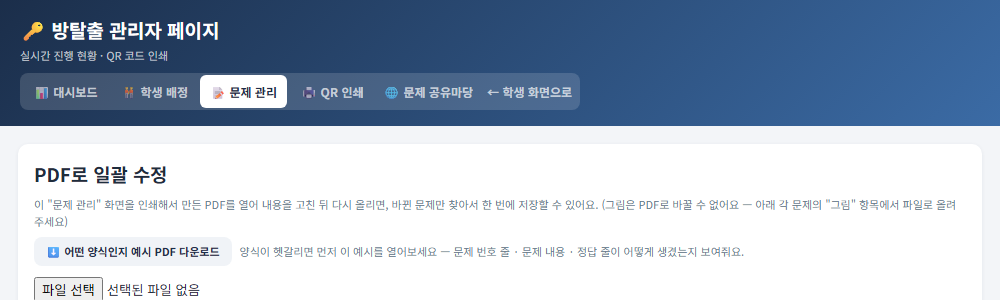
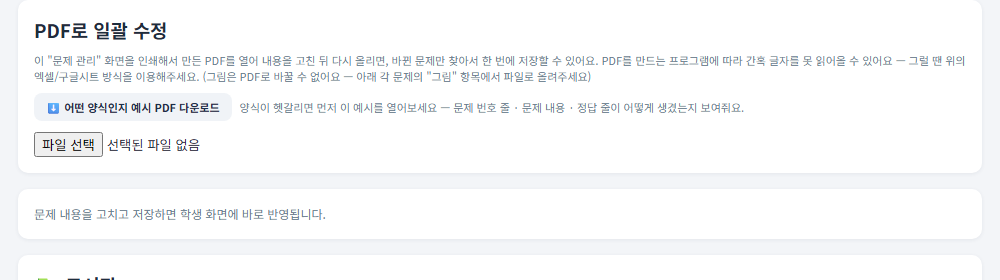
feat: add Excel/Google Sheets as a more reliable bulk question upload
PDF text extraction depends entirely on how the source program encoded
its fonts, so PDFs from tools other than a browser's own print-to-PDF
can still fail even after the CMap fix. Add a spreadsheet-based path
(문제번호, 학년, 단원, 문제, 정답 columns) that reuses the existing
roster CSV/Google Sheets plumbing, sidestepping font/text-extraction
issues entirely. Shares the same diff-preview and apply flow as the
PDF path via a new buildQuestionsDiffPreview() helper. Verified against
a generated sample .xlsx that round-trips with zero corruption.

Promoted it to the recommended option in both the tab UI and the usage
guide, with PDF kept as a fallback, and added a downloadable example
.xlsx alongside the existing example PDF.

diff --git a/index.html b/index.html
@@ -1062,24 +1062,31 @@ function renderGuideTab(targetId){
     "위쪽 탭에서 <b>문제 관리</b>를 누르면 교실별로 모든 문제와 정답이 나와요.",
     "문제 하나씩 글자를 고친 뒤 그 문제 옆의 <b>저장</b> 버튼을 누르면, 학생 화면에 바로 반영돼요. (학생이 화면을 새로고침할 필요도 없어요)"
     ],
-    guideShot("assets/guide/questions-tab.jpg","'문제 관리' 탭 — PDF 일괄 수정과 문제별 그림 올리기")
-      +guideSubStep("3-1","PDF로 여러 문제 한꺼번에 올리기",[
-        "문제가 많아서 한꺼번에 여러 개를 고치고 싶을 때 쓰는 방법이에요.",
-        "양식이 헷갈리면, '문제 관리' 화면 맨 위 <b>⬇ 예시 PDF 다운로드</b> 버튼을 눌러 먼저 열어보세요. 실제로 인식되는 형식 그대로 만든 예시 파일이에요.",
+    guideShot("assets/guide/questions-tab.jpg","'문제 관리' 탭 — 엑셀/구글시트·PDF 일괄 수정과 문제별 그림 올리기")
+      +guideSubStep("3-1","엑셀·구글시트로 여러 문제 한꺼번에 올리기 (추천)",[
+        "문제가 많아서 한꺼번에 여러 개를 고치고 싶을 때 쓰는 방법이에요. 아래 PDF 방식보다 훨씬 안정적으로 인식되니 이 방법을 먼저 써보세요.",
+        "'문제 관리' 화면 맨 위 <b>⬇ 예시 엑셀 다운로드</b> 버튼을 눌러 먼저 열어보세요. 표의 각 줄이 <b>문제번호, 학년, 단원, 문제, 정답</b> 순서로 되어 있어요.",
+        "이 예시를 참고해서 직접 표를 채우거나, 문제를 만들어달라고 AI에게 부탁할 때 \"이 예시 엑셀과 같은 표 형식(문제번호, 학년, 단원, 문제, 정답 순서)으로 만들어줘\"라고 요청하면 훨씬 정확하게 만들어줘요.",
+        "다 만들었으면 <b>구글시트 링크</b>를 붙여넣거나 <b>엑셀(.xlsx) 파일</b>을 올려주세요. 바뀐 부분만 자동으로 찾아서 미리 보여줘요.",
+        "랜덤으로 출제되는 문제는 정답 칸에 뭘 적어도 반영되지 않으니 비워두거나 예시처럼 안내 문구를 적어두면 돼요."
+      ], guideShot("assets/guide/sheet-upload.png","'문제 관리' 화면 맨 위 — 예시 엑셀 다운로드와 엑셀/구글시트로 일괄 수정"))
+      +guideSubStep("3-2","PDF로 여러 문제 한꺼번에 올리기",[
+        "PDF도 계속 쓸 수 있지만, PDF를 만드는 프로그램(워드·한글·AI 도구 등)에 따라 한글이 깨져서 인식되지 않는 경우가 있어요. 그럴 땐 위의 엑셀/구글시트 방식을 이용해주세요.",
+        "양식이 헷갈리면, <b>⬇ 예시 PDF 다운로드</b> 버튼을 눌러 먼저 열어보세요. 실제로 인식되는 형식 그대로 만든 예시 파일이에요.",
         "직접 만들 때는 먼저 '문제 관리' 화면을 <b>인쇄(또는 PDF로 저장)</b>해서, 지금 등록된 모든 문제를 담은 PDF를 받아주세요.",
         "그 PDF를 워드나 한글 등에서 열어 내용을 고쳐주세요. 이때 아래 규칙을 반드시 지켜야 자동으로 인식돼요.",
         "규칙① 문제마다 <b>\"R1Q1 1학년 단원명\"</b>처럼 문제 번호로 시작하는 줄이 있어야 해요. 이 줄의 형식은 바꾸지 마세요.",
         "규칙② 그다음 줄(들)에 문제 본문을 적어주세요.",
         "규칙③ 마지막 줄에 <b>\"정답 정답값\"</b> 형식으로 정답을 적어주세요. (예: \"정답 6\") 랜덤으로 출제되는 문제는 정답을 적어도 반영되지 않으니, 원래 있던 문구를 그대로 두세요.",
-        "다 고쳤으면 같은 형식으로 <b>PDF로 저장</b>한 뒤, 문제 관리 화면 맨 위 <b>PDF로 일괄 수정</b>에 올려주세요. 바뀐 부분만 자동으로 찾아서 미리 보여줘요."
-      ], guideShot("assets/guide/pdf-upload.png","'문제 관리' 화면 맨 위 — 예시 PDF 다운로드와 PDF로 일괄 수정 올리기"))
-      +guideSubStep("3-2","문제에 그림·사진 올리기",[
-        "그림이 들어간 문제는 PDF로는 바꿀 수 없어요 — 사진으로 직접 올려야 해요.",
+        "다 고쳤으면 같은 형식으로 <b>PDF로 저장</b>한 뒤, <b>PDF로 일괄 수정</b>에 올려주세요."
+      ], guideShot("assets/guide/pdf-upload.png","'문제 관리' 화면의 PDF 일괄 수정 카드 — 예시 PDF 다운로드와 업로드"))
+      +guideSubStep("3-3","문제에 그림·사진 올리기",[
+        "그림이 들어간 문제는 엑셀·PDF 어느 쪽으로도 바꿀 수 없어요 — 사진으로 직접 올려야 해요.",
         "문제 관리 화면에서 사진을 바꾸고 싶은 문제를 찾아, 그 문제 옆의 <b>그림 올리기</b>에서 사진 파일을 선택해주세요.",
         "사진을 올리면 자동으로 크기를 맞춰 저장되고, 학생 화면에 바로 반영돼요.",
         "원래 그림으로 되돌리고 싶으면 <b>원래 그림으로</b> 버튼을 눌러주세요."
       ], guideShot("assets/guide/image-upload.png","문제 하나의 정답 저장 버튼 아래 — 그림 올리기"))
-      +guideSubStep("3-3","방마다 문제 개수 조절하고, 특정 문제만 켜고 끄기",[
+      +guideSubStep("3-4","방마다 문제 개수 조절하고, 특정 문제만 켜고 끄기",[
         "각 교실 이름 아래 있는 <b>이 방 문제 개수</b>를 4~8개 중에서 고르고 <b>적용</b>을 누르면, 학년이 낮은 문제부터 그만큼만 자동으로 켜져요. 예를 들어 6개를 고르면 1~3학년 문제 위주로 켜지고 나머지는 꺼져요.",
         "특정 문제 하나만 따로 켜거나 끄고 싶으면, 그 문제 제목 옆의 <b>이 문제 사용</b> 체크박스를 눌러주세요. 체크를 해제하면 그 문제는 회색으로 흐려지고, QR 인쇄와 학생 화면에서도 함께 빠져요. (각 방에는 최소 1개의 문제는 켜져 있어야 해요)",
         "문제를 껐다 켜도 이미 학생이 푼 기록에는 영향을 주지 않아요."
@@ -2421,8 +2428,20 @@ function connectQuestionOverrides(){
   });
 }
 function renderQuestionsTab(){
-  let h='<div class="card"><h3 style="margin-bottom:8px;">PDF로 일괄 수정</h3>';
-  h+='<div style="font-size:11px;color:var(--tx2);margin-bottom:8px;">이 "문제 관리" 화면을 인쇄해서 만든 PDF를 열어 내용을 고친 뒤 다시 올리면, 바뀐 문제만 찾아서 한 번에 저장할 수 있어요. (그림은 PDF로 바꿀 수 없어요 — 아래 각 문제의 "그림" 항목에서 파일로 올려주세요)</div>';
+  let h='<div class="card"><h3 style="margin-bottom:8px;">엑셀/구글시트로 일괄 수정 (추천)</h3>';
+  h+='<div style="font-size:11px;color:var(--tx2);margin-bottom:8px;">PDF보다 훨씬 더 안정적으로 인식돼요. 표의 각 줄에 <b>문제번호, 학년, 단원, 문제, 정답</b> 순서로 적어서 올려주세요. (그림은 여기서도 바꿀 수 없어요 — 아래 각 문제의 "그림" 항목에서 파일로 올려주세요)</div>';
+  h+='<div style="margin-bottom:10px;"><a class="btn btn-sub" style="display:inline-block;text-decoration:none;font-size:11px;padding:6px 12px;" href="assets/samples/sample_questions.xlsx" download="방탈출_문제_예시양식.xlsx">⬇ 어떤 양식인지 예시 엑셀 다운로드</a>'
+    +'<span style="font-size:11px;color:var(--tx2);margin-left:8px;">AI에게 문제를 만들어달라고 할 때도 "이 예시와 같은 표 형식으로 만들어줘"라고 하면 훨씬 정확해요.</span></div>';
+  h+='<div style="margin-bottom:10px;display:flex;gap:8px;flex-wrap:wrap;align-items:center;">';
+  h+='<input type="text" id="qSheetUrlInp" placeholder="구글시트 링크 붙여넣기" style="flex:1;min-width:220px;padding:8px;border:1px solid var(--bdr);border-radius:6px;font-size:12px;">';
+  h+='<button class="btn btn-primary" onclick="loadFromQuestionsSheet()">불러오기</button>';
+  h+='</div>';
+  h+='<div style="font-size:11px;color:var(--tx2);margin-bottom:10px;">※ 구글시트는 공유 설정이 "링크가 있는 모든 사용자 - 뷰어"여야 불러올 수 있어요.</div>';
+  h+='<input type="file" id="qExcelInp" accept=".xlsx,.xls" onchange="loadFromQuestionsExcelFile(this.files[0])">';
+  h+='<div id="qSheetErr" style="display:none;color:var(--red);font-size:12px;margin-top:8px;"></div>';
+  h+='</div>';
+  h+='<div class="card"><h3 style="margin-bottom:8px;">PDF로 일괄 수정</h3>';
+  h+='<div style="font-size:11px;color:var(--tx2);margin-bottom:8px;">이 "문제 관리" 화면을 인쇄해서 만든 PDF를 열어 내용을 고친 뒤 다시 올리면, 바뀐 문제만 찾아서 한 번에 저장할 수 있어요. PDF를 만드는 프로그램에 따라 간혹 글자를 못 읽어올 수 있어요 — 그럴 땐 위의 엑셀/구글시트 방식을 이용해주세요. (그림은 PDF로 바꿀 수 없어요 — 아래 각 문제의 "그림" 항목에서 파일로 올려주세요)</div>';
   h+='<div style="margin-bottom:10px;"><a class="btn btn-sub" style="display:inline-block;text-decoration:none;font-size:11px;padding:6px 12px;" href="assets/samples/sample_questions.pdf" download="방탈출_문제_예시양식.pdf">⬇ 어떤 양식인지 예시 PDF 다운로드</a>'
     +'<span style="font-size:11px;color:var(--tx2);margin-left:8px;">양식이 헷갈리면 먼저 이 예시를 열어보세요 — 문제 번호 줄 · 문제 내용 · 정답 줄이 어떻게 생겼는지 보여줘요.</span></div>';
   h+='<input type="file" id="qPdfInp" accept="application/pdf" onchange="loadFromQuestionsPdf(this.files[0])">';
@@ -2770,6 +2789,31 @@ function parseQuestionsPdfText(fullText){
   }
   return results;
 }
+/* PDF·엑셀·구글시트 세 가지 업로드 경로가 모두 {qid,rid,grade,unit,text,answer} 배열을 만들고 나면,
+   기존 QFULL/QOVERRIDE와 비교해 "무엇이 바뀌었는지" 계산하는 부분은 완전히 같다 — 그 공통 로직. */
+function buildQuestionsDiffPreview(parsed){
+  return parsed.map(p=>{
+    const base=(QFULL[p.rid]||[]).find(q=>q[0]===p.qid);
+    if(!base)return null;
+    const baseGrade=base[1],baseUnit=base[2],baseAnswer=base[3],baseText=base[4];
+    const ov=(QOVERRIDE[p.rid]&&QOVERRIDE[p.rid][p.qid])||{};
+    const oldGrade=ov.grade!==undefined?Number(ov.grade):baseGrade;
+    const oldUnit=ov.unit!==undefined?ov.unit:baseUnit;
+    const oldAnswer=ov.answer!==undefined?ov.answer:baseAnswer;
+    const oldText=ov.text!==undefined?ov.text:baseText;
+    const isRandom=baseAnswer===null;
+    const gradeChanged=p.grade!==Number(oldGrade);
+    const unitChanged=p.unit!==oldUnit;
+    // PDF의 줄바꿈 위치에 따라 원래 없던 공백이 낱말 사이(드물게는 낱말 안)에 끼어들 수 있어
+    // 공백을 무시하고 비교한다 — 실제 내용이 같으면 "본문 수정됨"으로 잘못 뜨지 않도록
+    const textChanged=p.text.replace(/\s+/g,"")!==oldText.replace(/\s+/g,"");
+    const answerChanged=!isRandom&&p.answer!==null&&p.answer!==oldAnswer;
+    return {rid:p.rid,qid:p.qid,grade:p.grade,unit:p.unit,text:p.text,answer:isRandom?null:p.answer,
+      oldGrade,oldUnit,oldAnswer,oldText,isRandom,
+      gradeChanged,unitChanged,textChanged,answerChanged,
+      changed:gradeChanged||unitChanged||textChanged||answerChanged};
+  }).filter(Boolean);
+}
 async function loadFromQuestionsPdf(file){
   if(!file)return;
   const errEl=document.getElementById("qPdfErr");
@@ -2779,31 +2823,71 @@ async function loadFromQuestionsPdf(file){
     const text=await extractPdfText(file);
     const parsed=parseQuestionsPdfText(text);
     if(parsed.length===0)throw new Error("PDF에서 문제를 찾지 못했어요. 이 화면을 인쇄해서 만든 PDF가 맞는지 확인해주세요.");
-    const withDiff=parsed.map(p=>{
-      const base=(QFULL[p.rid]||[]).find(q=>q[0]===p.qid);
-      if(!base)return null;
-      const baseGrade=base[1],baseUnit=base[2],baseAnswer=base[3],baseText=base[4];
-      const ov=(QOVERRIDE[p.rid]&&QOVERRIDE[p.rid][p.qid])||{};
-      const oldGrade=ov.grade!==undefined?Number(ov.grade):baseGrade;
-      const oldUnit=ov.unit!==undefined?ov.unit:baseUnit;
-      const oldAnswer=ov.answer!==undefined?ov.answer:baseAnswer;
-      const oldText=ov.text!==undefined?ov.text:baseText;
-      const isRandom=baseAnswer===null;
-      const gradeChanged=p.grade!==Number(oldGrade);
-      const unitChanged=p.unit!==oldUnit;
-      // PDF의 줄바꿈 위치에 따라 원래 없던 공백이 낱말 사이(드물게는 낱말 안)에 끼어들 수 있어
-      // 공백을 무시하고 비교한다 — 실제 내용이 같으면 "본문 수정됨"으로 잘못 뜨지 않도록
-      const textChanged=p.text.replace(/\s+/g,"")!==oldText.replace(/\s+/g,"");
-      const answerChanged=!isRandom&&p.answer!==null&&p.answer!==oldAnswer;
-      return {rid:p.rid,qid:p.qid,grade:p.grade,unit:p.unit,text:p.text,answer:isRandom?null:p.answer,
-        oldGrade,oldUnit,oldAnswer,oldText,isRandom,
-        gradeChanged,unitChanged,textChanged,answerChanged,
-        changed:gradeChanged||unitChanged||textChanged||answerChanged};
-    }).filter(Boolean);
-    parsedQuestionsPreview=withDiff;
+    parsedQuestionsPreview=buildQuestionsDiffPreview(parsed);
     renderQuestionsTab();
   }catch(e){
     if(errEl){errEl.style.display="";errEl.textContent=e.message||String(e);}
+  }
+}
+/* 표(엑셀·구글시트) 한 줄 = 문제 하나. "문제번호, 학년, 단원, 문제, 정답" 순서를 기대하지만,
+   PDF와 달리 폰트·줄바꿈 문제가 아예 없어 훨씬 안정적으로 인식된다. */
+function parseQuestionsSheetRows(rows){
+  const results=[];
+  rows.forEach((row,i)=>{
+    const qidRaw=(row[0]||"").toString().trim().toUpperCase();
+    if(i===0&&!/^R\d+Q\d+$/.test(qidRaw))return; // 머리글 행으로 간주하고 건너뜀
+    if(!/^R\d+Q\d+$/.test(qidRaw))return;
+    const qid=qidRaw,rid=qid.slice(0,qid.indexOf("Q"));
+    const gradeRaw=(row[1]||"").toString().trim();
+    const grade=/^\d+$/.test(gradeRaw)?Number(gradeRaw):0;
+    const unit=(row[2]||"").toString().trim();
+    const text=(row[3]||"").toString().trim();
+    if(!text)return;
+    const answerRaw=(row[4]||"").toString().trim();
+    const answer=(answerRaw&&!/랜덤/.test(answerRaw))?answerRaw:null;
+    results.push({qid,rid,grade,unit,text,answer});
+  });
+  return results;
+}
+function showQSheetErr(msg){
+  const el=document.getElementById("qSheetErr");
+  if(el){el.style.display="";el.textContent=msg;}
+}
+function loadFromQuestionsExcelFile(file){
+  if(!file)return;
+  const errEl=document.getElementById("qSheetErr");
+  if(errEl)errEl.style.display="none";
+  const reader=new FileReader();
+  reader.onload=function(e){
+    try{
+      const wb=XLSX.read(e.target.result,{type:"array"});
+      const sheet=wb.Sheets[wb.SheetNames[0]];
+      const rows=XLSX.utils.sheet_to_json(sheet,{header:1}).map(r=>r.map(c=>(c===undefined||c===null)?"":String(c)));
+      const parsed=parseQuestionsSheetRows(rows);
+      if(parsed.length===0){showQSheetErr("표에서 문제를 찾지 못했어요. '문제번호, 학년, 단원, 문제, 정답' 순서인지 확인해주세요.");return;}
+      parsedQuestionsPreview=buildQuestionsDiffPreview(parsed);
+      renderQuestionsTab();
+    }catch(err){
+      showQSheetErr("엑셀 파일을 읽지 못했어요.");
+    }
+  };
+  reader.readAsArrayBuffer(file);
+}
+async function loadFromQuestionsSheet(){
+  const url=(document.getElementById("qSheetUrlInp").value||"").trim();
+  const id=RosterUtils.extractSheetId(url);
+  if(!id){showQSheetErr("올바른 구글시트 링크가 아니에요.");return;}
+  try{
+    const res=await fetch(RosterUtils.buildSheetCsvUrl(id));
+    if(!res.ok)throw new Error("fetch failed");
+    const text=await res.text();
+    const rows=RosterUtils.parseCSV(text);
+    const parsed=parseQuestionsSheetRows(rows);
+    if(parsed.length===0){showQSheetErr("표에서 문제를 찾지 못했어요. '문제번호, 학년, 단원, 문제, 정답' 순서인지 확인해주세요.");return;}
+    parsedQuestionsPreview=buildQuestionsDiffPreview(parsed);
+    renderQuestionsTab();
+  }catch(e){
+    showQSheetErr("시트를 불러오지 못했어요. 공유 설정이 '링크가 있는 모든 사용자 - 뷰어'인지 확인해주세요.");
   }
 }
 function confirmBulkQuestionUpdate(){
